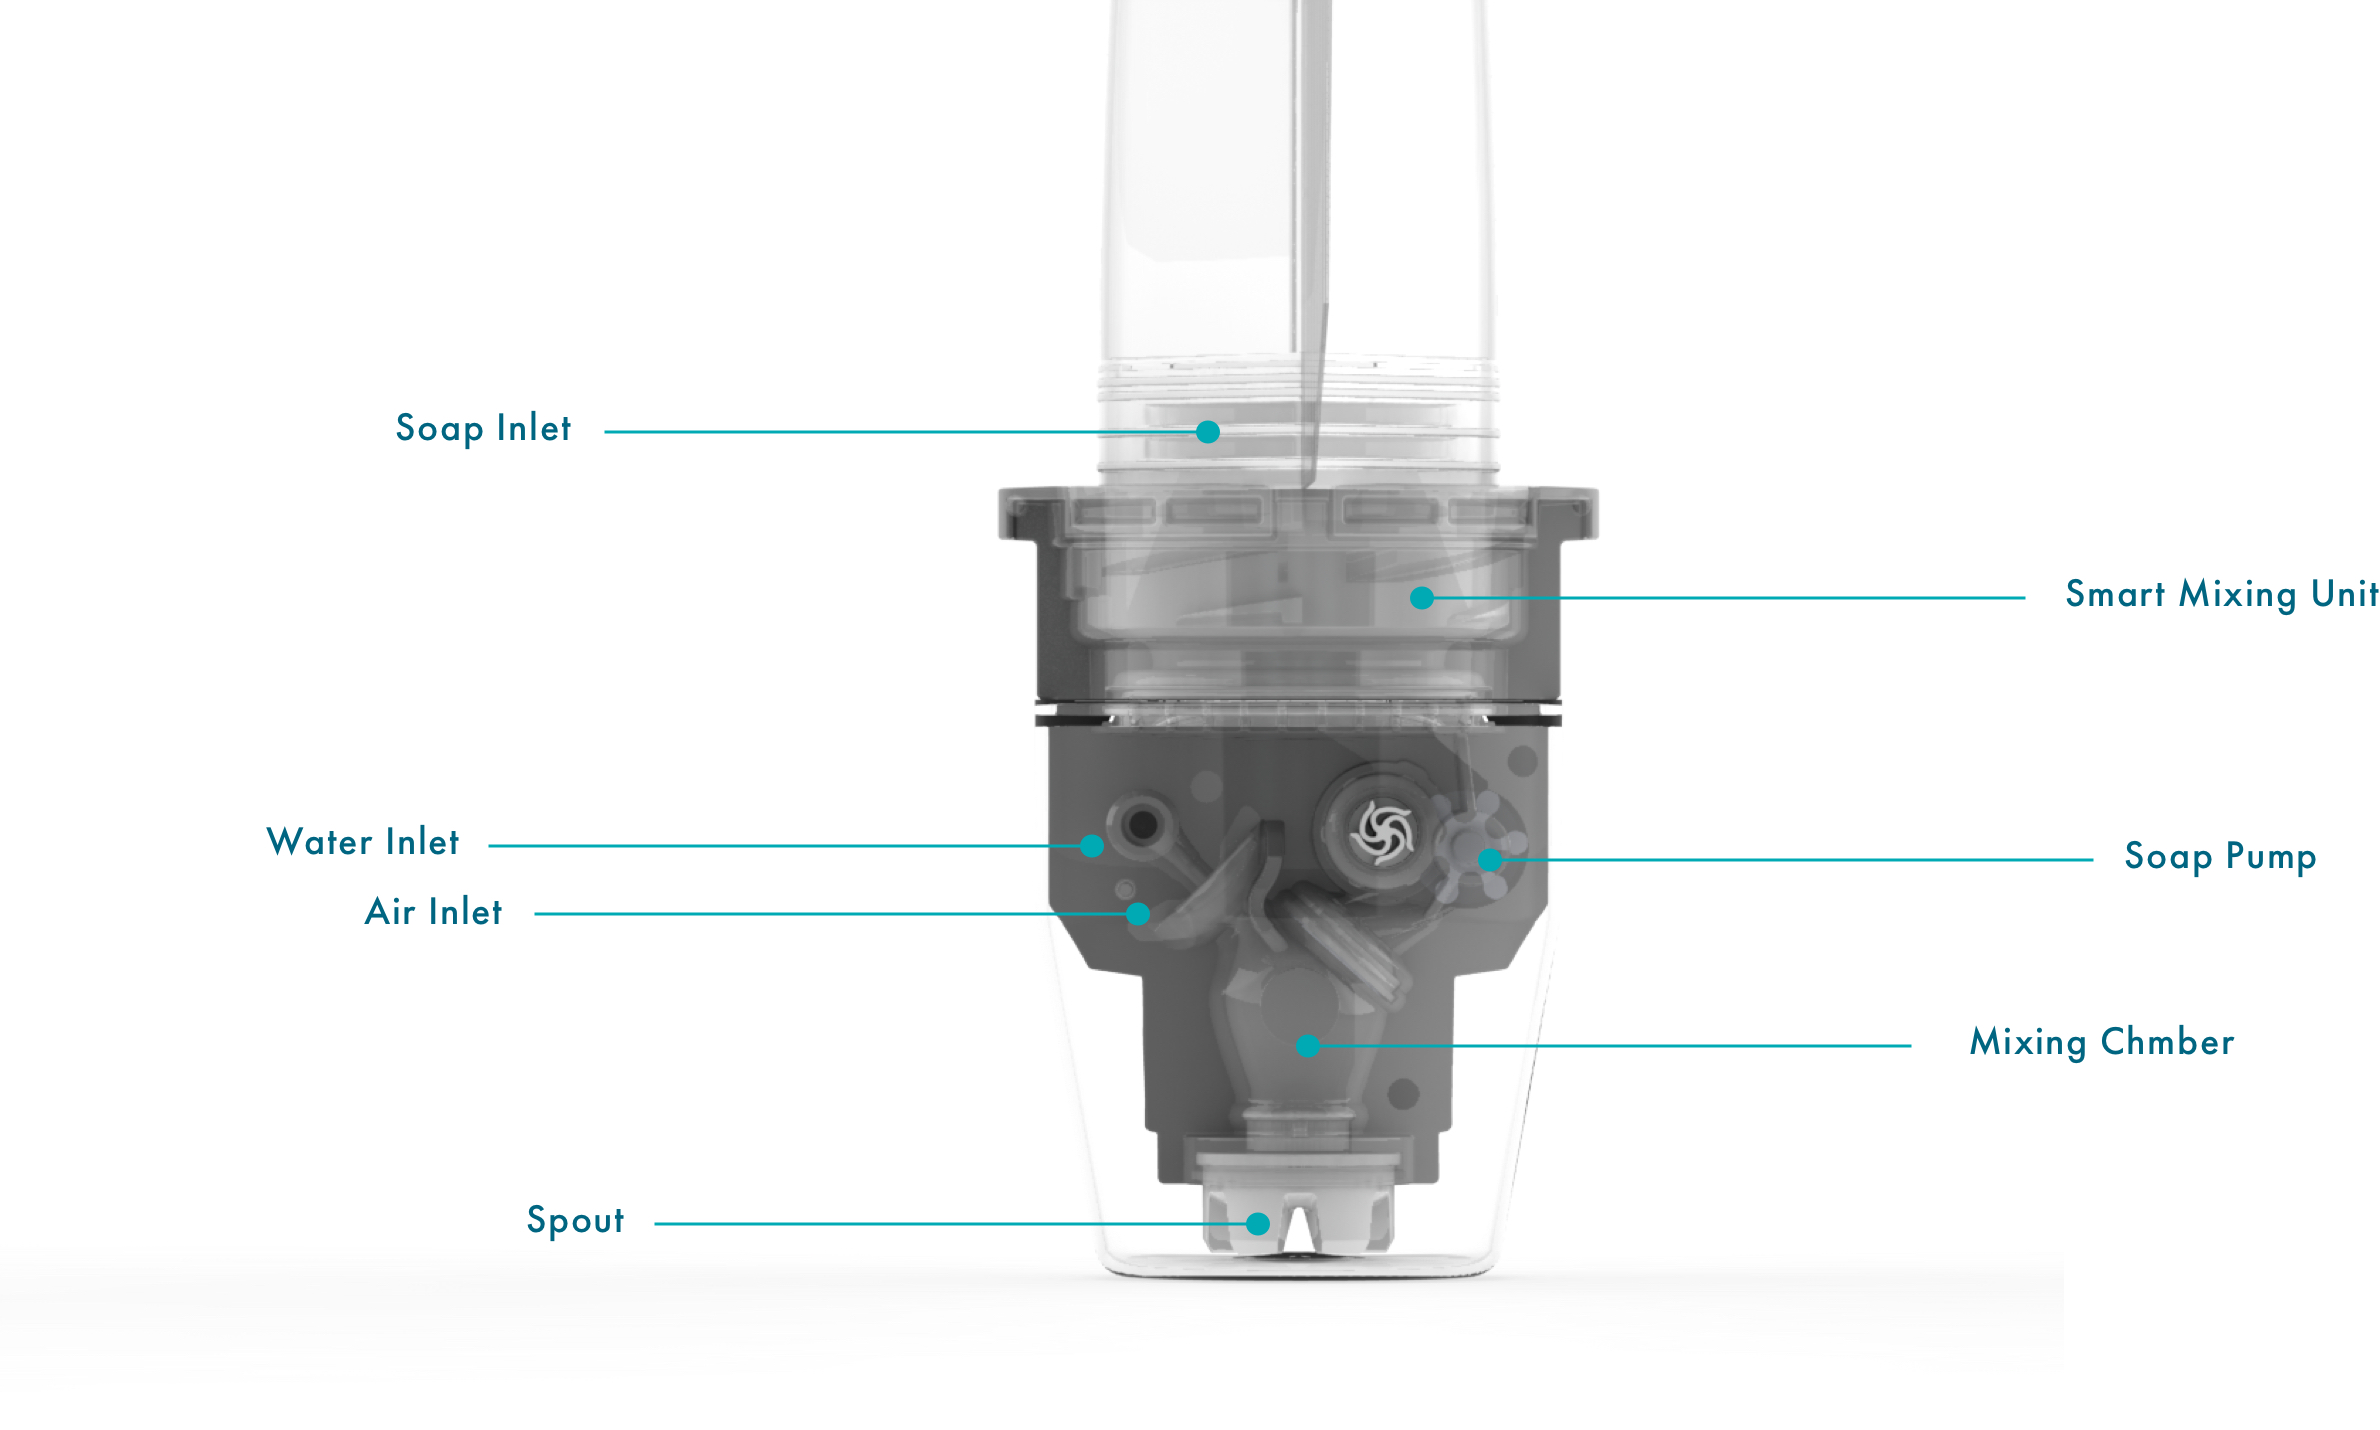
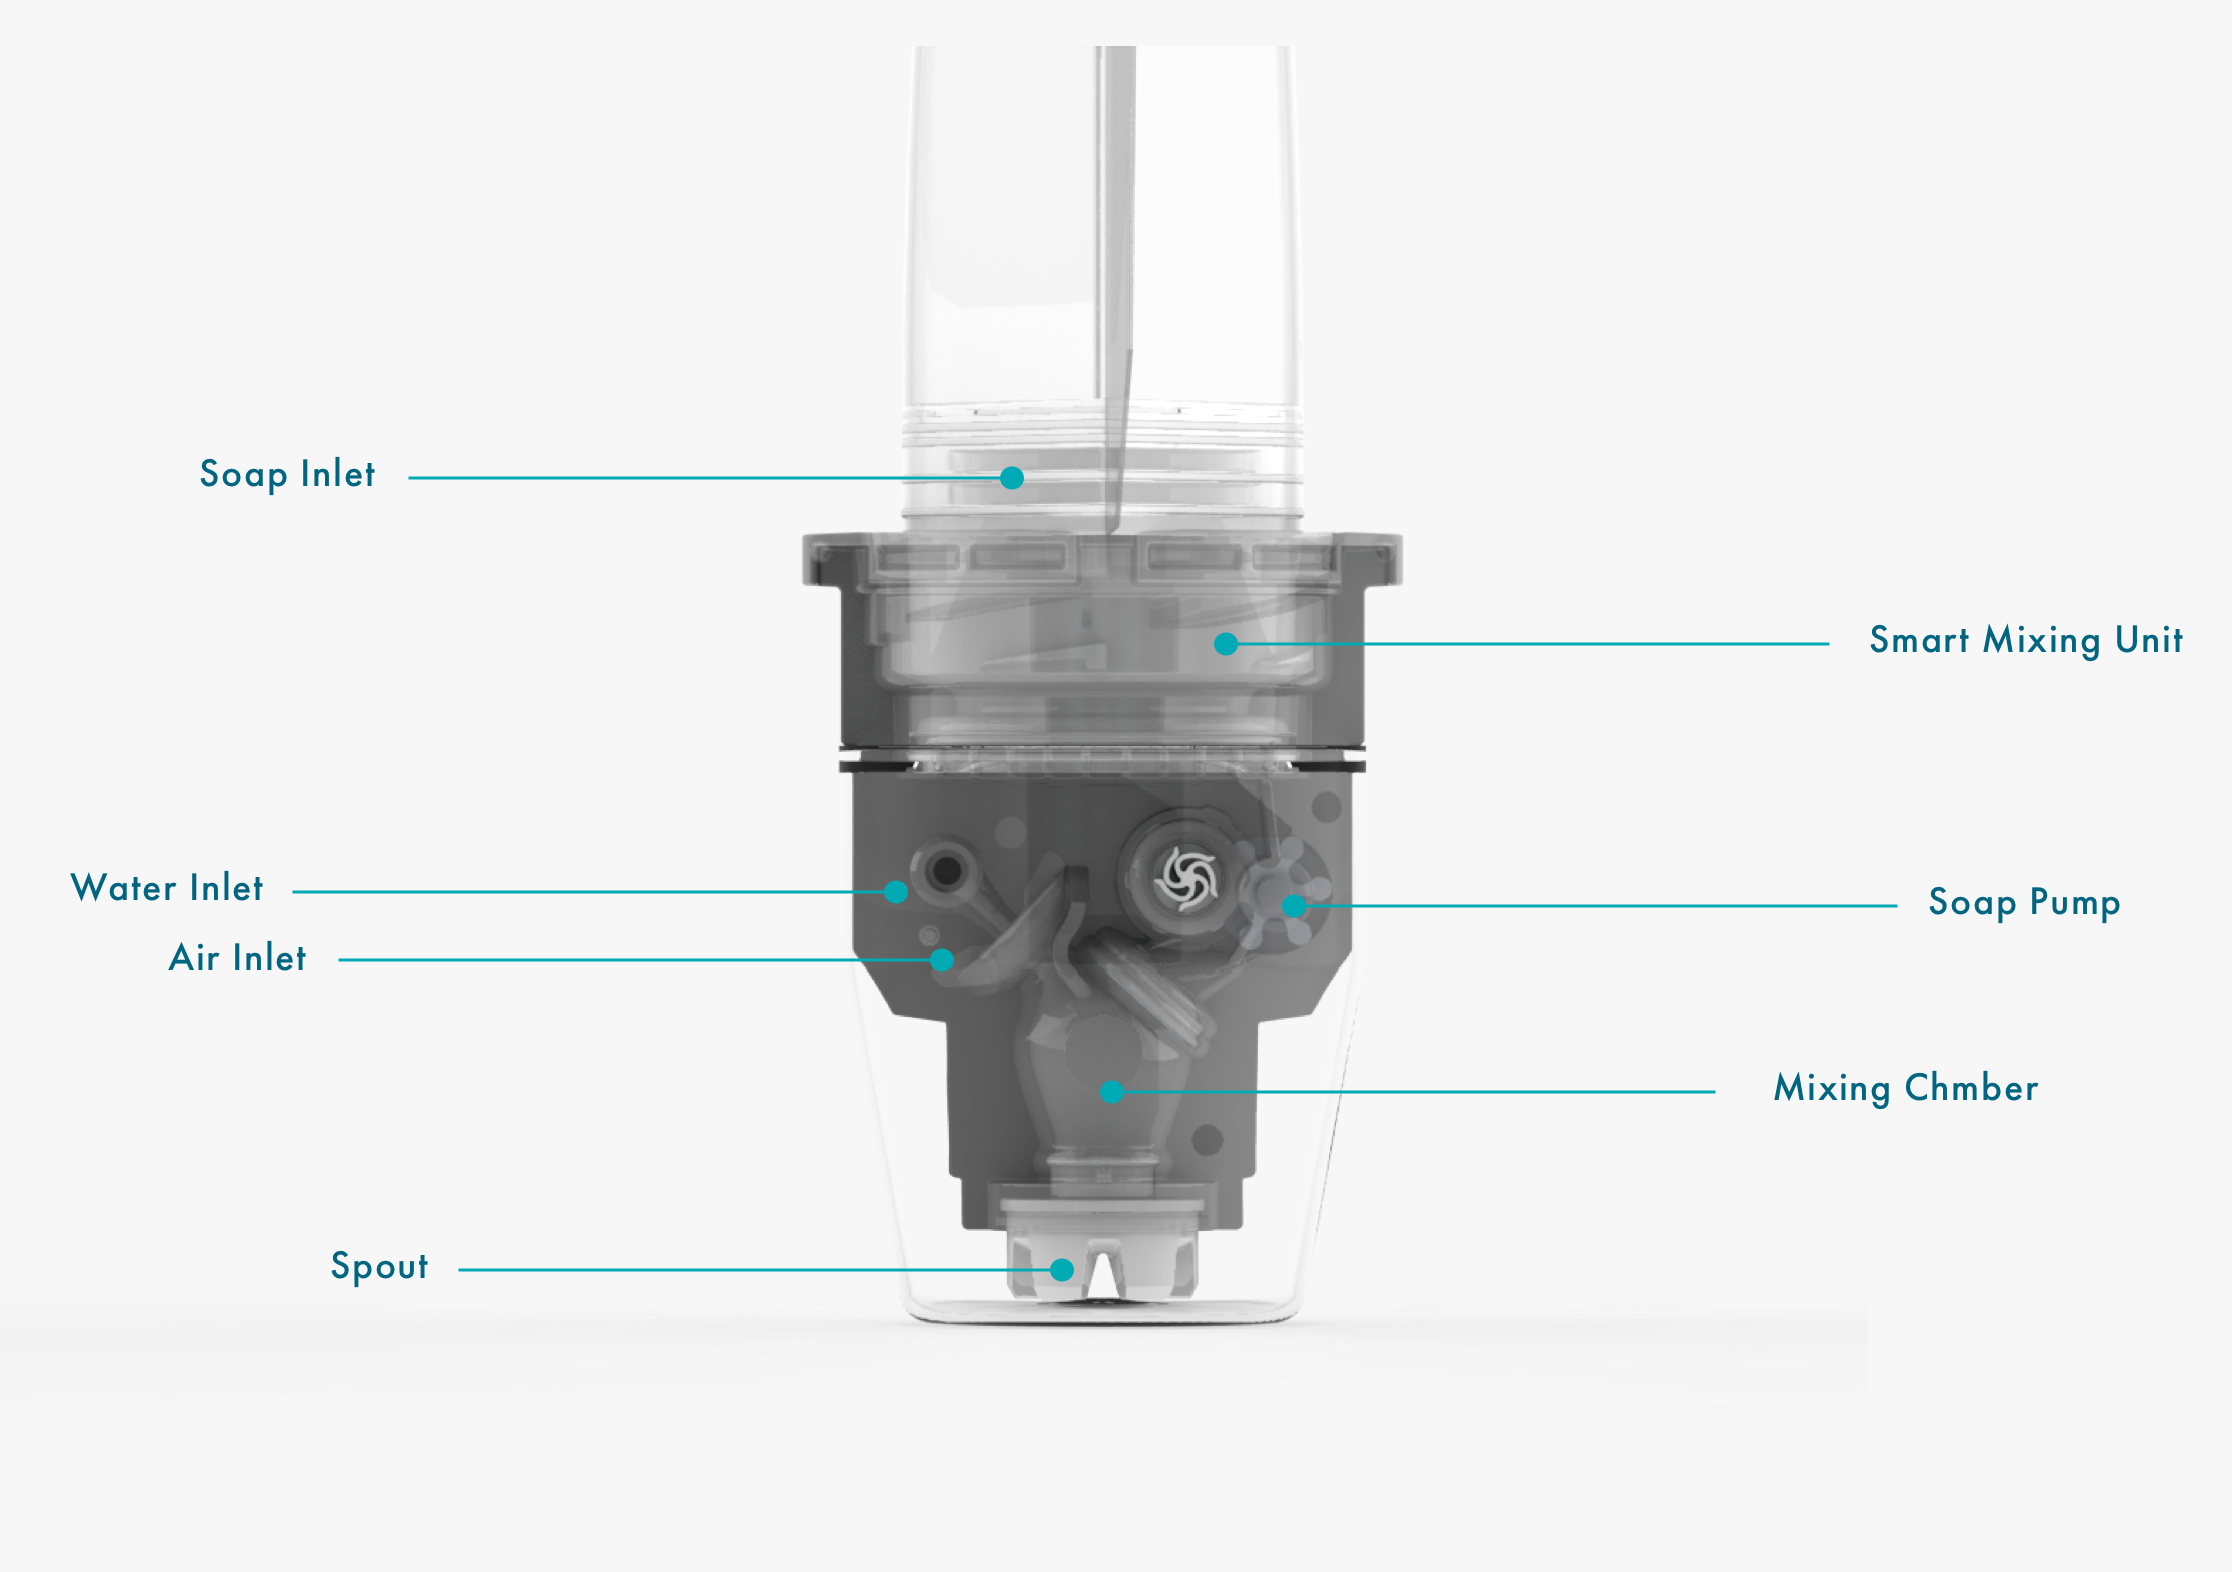
update

diff --git a/what-is-smixin.html b/what-is-smixin.html
@@ -64,7 +64,7 @@
       <nav class="m-menu">
         <ul class="d-flex flex-column align-items-sm-start">
           <li>
-            <a href="what-is-smixin.html">About Smixin</a>
+            <a href="#">About Smixin</a>
             <div class="sub-nav">
               <a href="what-is-smixin.html">What is Smixin?</a>
               <a href="what-is-smixin.html#smart-head">Technology of Smixin</a>
@@ -109,7 +109,7 @@
 
         <div class="image">
           <div class="image-wrap">
-            <img src="img/soap-poach.png" usemap="#soap">
+            <img src="img/soap-poach.jpg">
           </div>
         </div>
       </div>

diff --git a/css/index.css b/css/index.css
@@ -904,21 +904,18 @@ h2 {
 
 .wrap .smart-head {
   padding: 50px 0 70px;
-  background: #f5f5f5;
+  background: #f7f7f7;
   text-align: center;
 }
 
 .wrap .smart-head h2 {
-  margin-bottom: 50px;
+  margin-bottom: 10px;
   font-size: 40px;
   border-bottom: none;
   font-weight: 900;
 }
 
 .wrap .smart-head .image .image-wrap {
-  position: relative;
-  max-width: 400px;
-  width: 400px;
   margin: 0 auto;
   /*height: 563px;
   background: url('../../img/soap-poach.png') no-repeat top left;
@@ -926,7 +923,7 @@ h2 {
 }
 
 .wrap .smart-head .image .image-wrap > img {
-  max-width: 300px;
+  max-width: 800px;
   width: 100%;
 }
 

diff --git a/combi.html b/combi.html
@@ -65,7 +65,7 @@
       <nav class="m-menu">
         <ul class="d-flex flex-column align-items-sm-start">
           <li>
-            <a href="what-is-smixin.html">About Smixin</a>
+            <a href="#">About Smixin</a>
             <div class="sub-nav">
               <a href="what-is-smixin.html">What is Smixin?</a>
               <a href="what-is-smixin.html#smart-head">Technology of Smixin</a>

diff --git a/comfort.html b/comfort.html
@@ -65,7 +65,7 @@
       <nav class="m-menu">
         <ul class="d-flex flex-column align-items-sm-start">
           <li>
-            <a href="what-is-smixin.html">About Smixin</a>
+            <a href="#">About Smixin</a>
             <div class="sub-nav">
               <a href="what-is-smixin.html">What is Smixin?</a>
               <a href="what-is-smixin.html#smart-head">Technology of Smixin</a>

diff --git a/compact.html b/compact.html
@@ -65,7 +65,7 @@
       <nav class="m-menu">
         <ul class="d-flex flex-column align-items-sm-start">
           <li>
-            <a href="what-is-smixin.html">About Smixin</a>
+            <a href="#">About Smixin</a>
             <div class="sub-nav">
               <a href="what-is-smixin.html">What is Smixin?</a>
               <a href="what-is-smixin.html#smart-head">Technology of Smixin</a>

diff --git a/contact.html b/contact.html
@@ -64,7 +64,7 @@
       <nav class="m-menu">
         <ul class="d-flex flex-column align-items-sm-start">
           <li>
-            <a href="what-is-smixin.html">About Smixin</a>
+            <a href="#">About Smixin</a>
             <div class="sub-nav">
               <a href="what-is-smixin.html">What is Smixin?</a>
               <a href="what-is-smixin.html#smart-head">Technology of Smixin</a>

diff --git a/index.html b/index.html
@@ -67,7 +67,7 @@
       <nav class="m-menu">
         <ul class="d-flex flex-column align-items-sm-start">
           <li>
-            <a href="what-is-smixin.html">About Smixin</a>
+            <a href="#">About Smixin</a>
             <div class="sub-nav">
               <a href="what-is-smixin.html">What is Smixin?</a>
               <a href="what-is-smixin.html#smart-head">Technology of Smixin</a>

diff --git a/technopack.html b/technopack.html
@@ -64,7 +64,7 @@
       <nav class="m-menu">
         <ul class="d-flex flex-column align-items-sm-start">
           <li>
-            <a href="what-is-smixin.html">About Smixin</a>
+            <a href="#">About Smixin</a>
             <div class="sub-nav">
               <a href="what-is-smixin.html">What is Smixin?</a>
               <a href="what-is-smixin.html#smart-head">Technology of Smixin</a>
